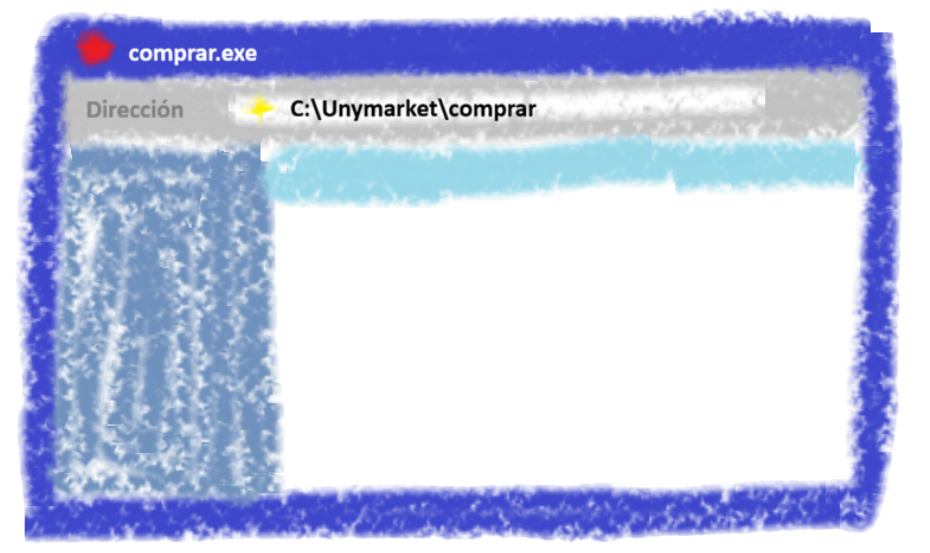
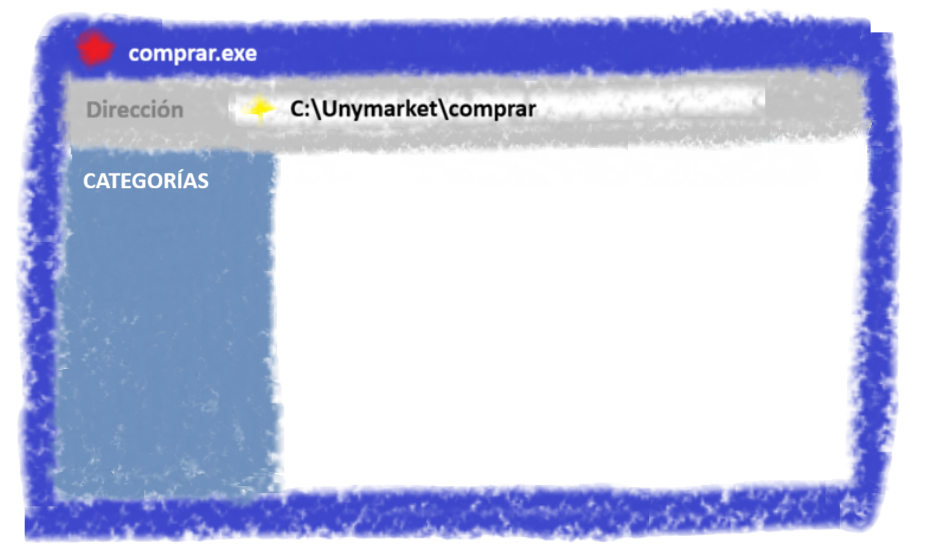
second commit

Changed region(s): [[0.0624, 0.2152, 0.9667, 0.9222]]

diff --git a/index.html b/index.html
@@ -22,7 +22,32 @@
         <div id="ventana_comprar" class="oculta">
             <img src="imagenes/ventana_comprar.png" alt="ventana_comprar.exe">
 
-            <button class="boton_ventana" id="boton_cerrar" style="left:89%">
+            <button class="boton_ventana" id="boton_cerrar" style="left:89%;">
+                <img src="imagenes/cerrar.png" alt="cerrar">
+            </button>
+
+            <div class ="seccion_oculta" id="seccion_libros">
+                <p>Aquí iran los libros</p>
+            </div>
+
+            <button class="categoria" id="boton_libros">
+                <img src="imagenes/Libros.png" alt="Libros">
+            </button>
+
+        </div>
+
+        <div id="ventana_perfil" class="oculta">
+            <img src="imagenes/ventana_perfil.png" alt="ventana_perfil.exe">
+
+            <button class="boton_ventana" id="boton_cerrar_perfil" style="left:89%;">
+                <img src="imagenes/cerrar.png" alt="cerrar">
+            </button>
+        </div>
+
+        <div id="ventana_vender" class="oculta">
+            <img src="imagenes/ventana_vender.png" alt="ventana_vender.exe">
+
+            <button class="boton_ventana" id="boton_cerrar_vender" style="left:89%;">
                 <img src="imagenes/cerrar.png" alt="cerrar">
             </button>
         </div>

diff --git a/script.js b/script.js
@@ -12,3 +12,34 @@ boton_cerrar.addEventListener("click", function ()
 {
     ventana.classList.add("oculta");
 });
+
+const boton_perfil = document.getElementById("boton_perfil");
+const ventana_perfil = document.getElementById("ventana_perfil");
+const boton_cerrar_perfil = document.getElementById("boton_cerrar_perfil");
+
+boton_perfil.addEventListener("click", function (){
+    ventana_perfil.classList.remove("oculta");
+});
+
+boton_cerrar_perfil.addEventListener("click", function (){
+    ventana_perfil.classList.add("oculta");
+});
+
+const boton_vender = document.getElementById("boton_vender");
+const ventana_vender = document.getElementById("ventana_vender");
+const boton_cerrar_vender = document.getElementById("boton_cerrar_vender");
+
+boton_vender.addEventListener("click", function (){
+    ventana_vender.classList.remove("oculta");
+});
+
+boton_cerrar_vender.addEventListener("click", function (){
+    ventana_vender.classList.add("oculta");
+});
+
+const boton_libros = document.getElementById("boton_libros");
+const seccion_libros = document.getElementById("seccion_libros");
+
+boton_libros.addEventListener("click", function (){
+    seccion_libros.classList.remove("oculta");
+});

diff --git a/style.css b/style.css
@@ -44,15 +44,19 @@ body
     display: block;
 }
 
-#ventana_comprar
+#ventana_comprar,
+#ventana_vender,
+#ventana_perfil
 {
     position: absolute;
-    left: 25%;
+    left: 28%;
     top: 14%;
-    width: 55%;
+    width: 50%;
 }
 
-#ventana_comprar img
+#ventana_comprar img,
+#ventana_vender img,
+#ventana_perfil img
 {
     width: 100%;
     display: block;
@@ -78,4 +82,27 @@ body
 .oculta
 {
     display: none;
+}
+
+.categoria
+{
+    position: absolute;
+    left: 7%;
+    top: 37%;
+    width: 12%;
+    background: none;
+    border: none;
+    padding: 0;
+    cursor: pointer;
+}
+
+.categoria img
+{
+    width: 100%;
+    display: block;
+}
+
+.seccion
+{
+    position: absolute;
 }
